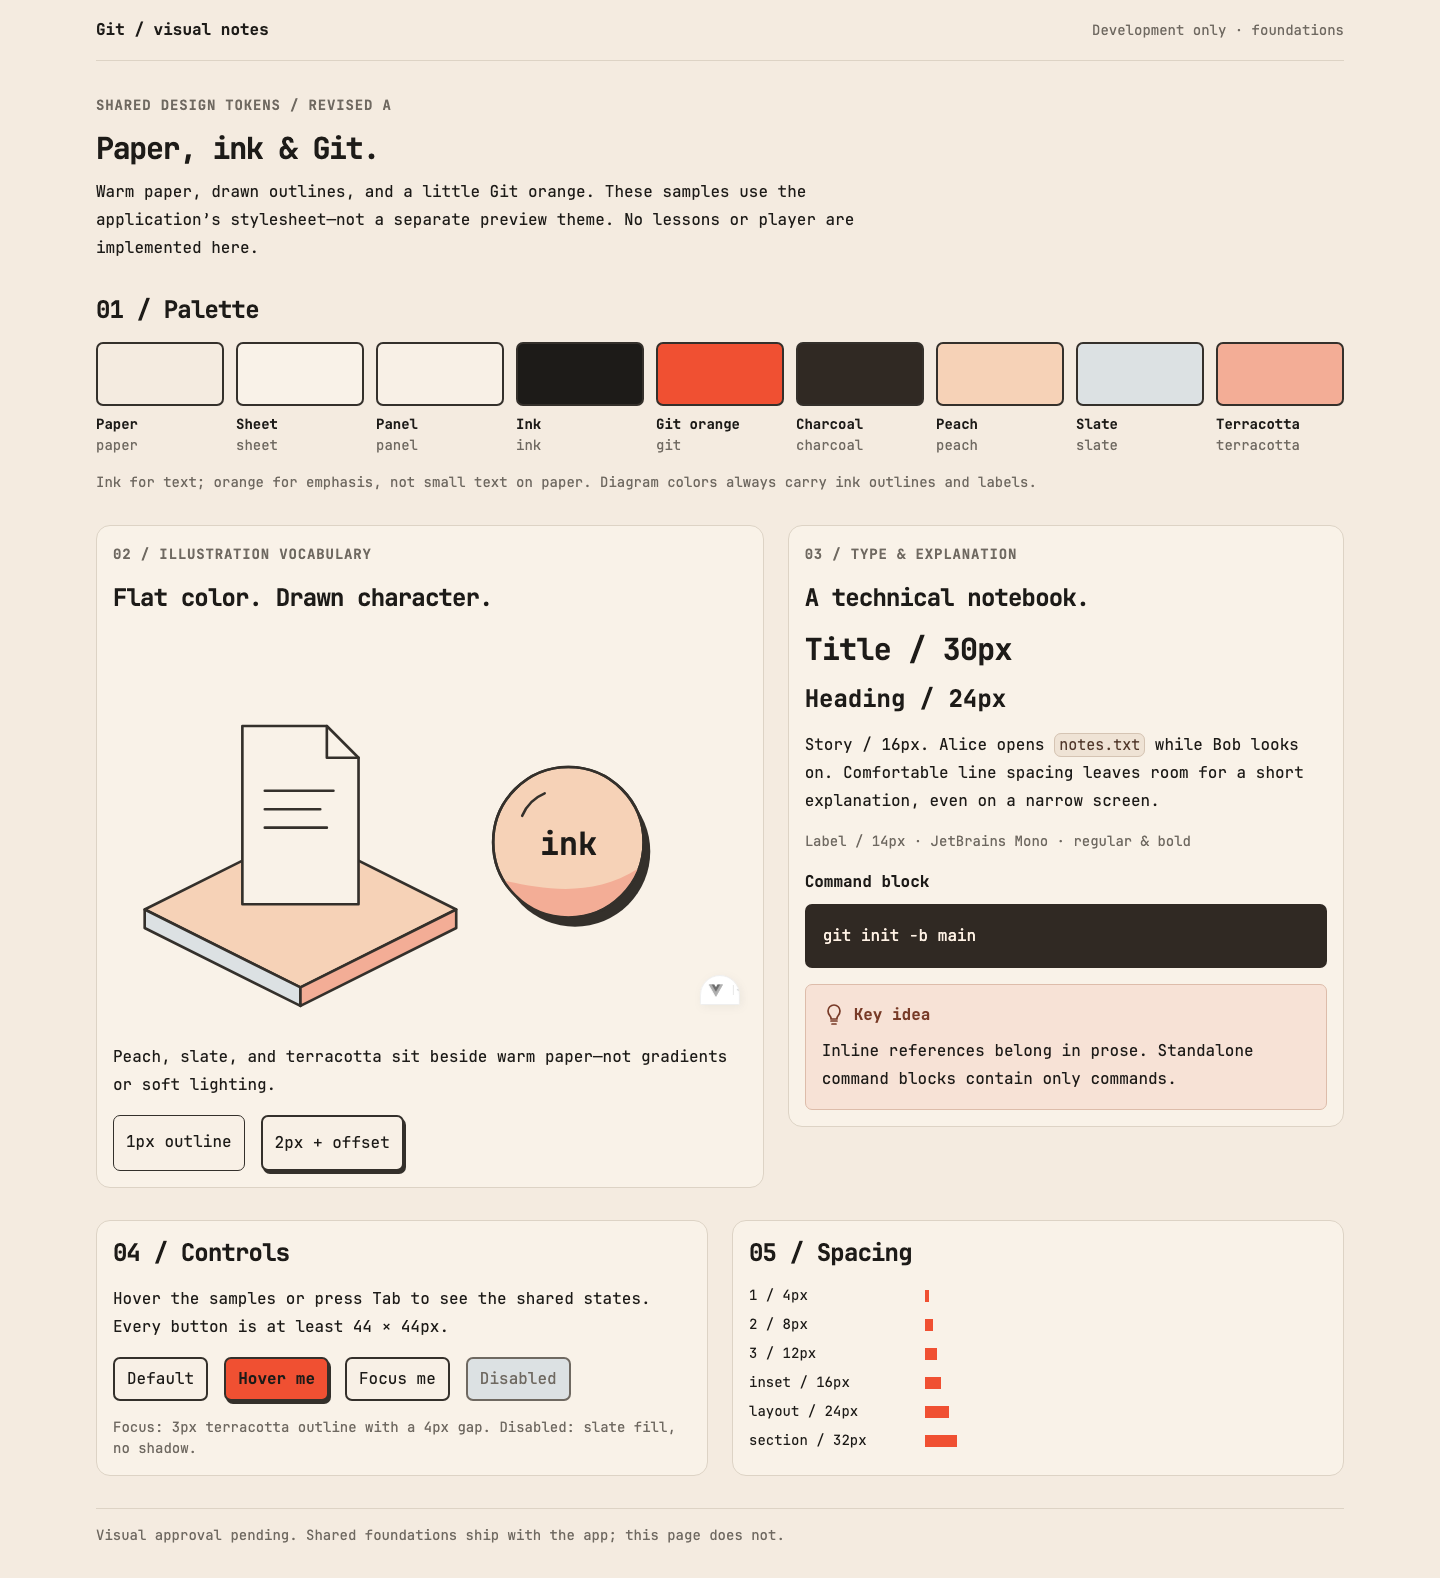
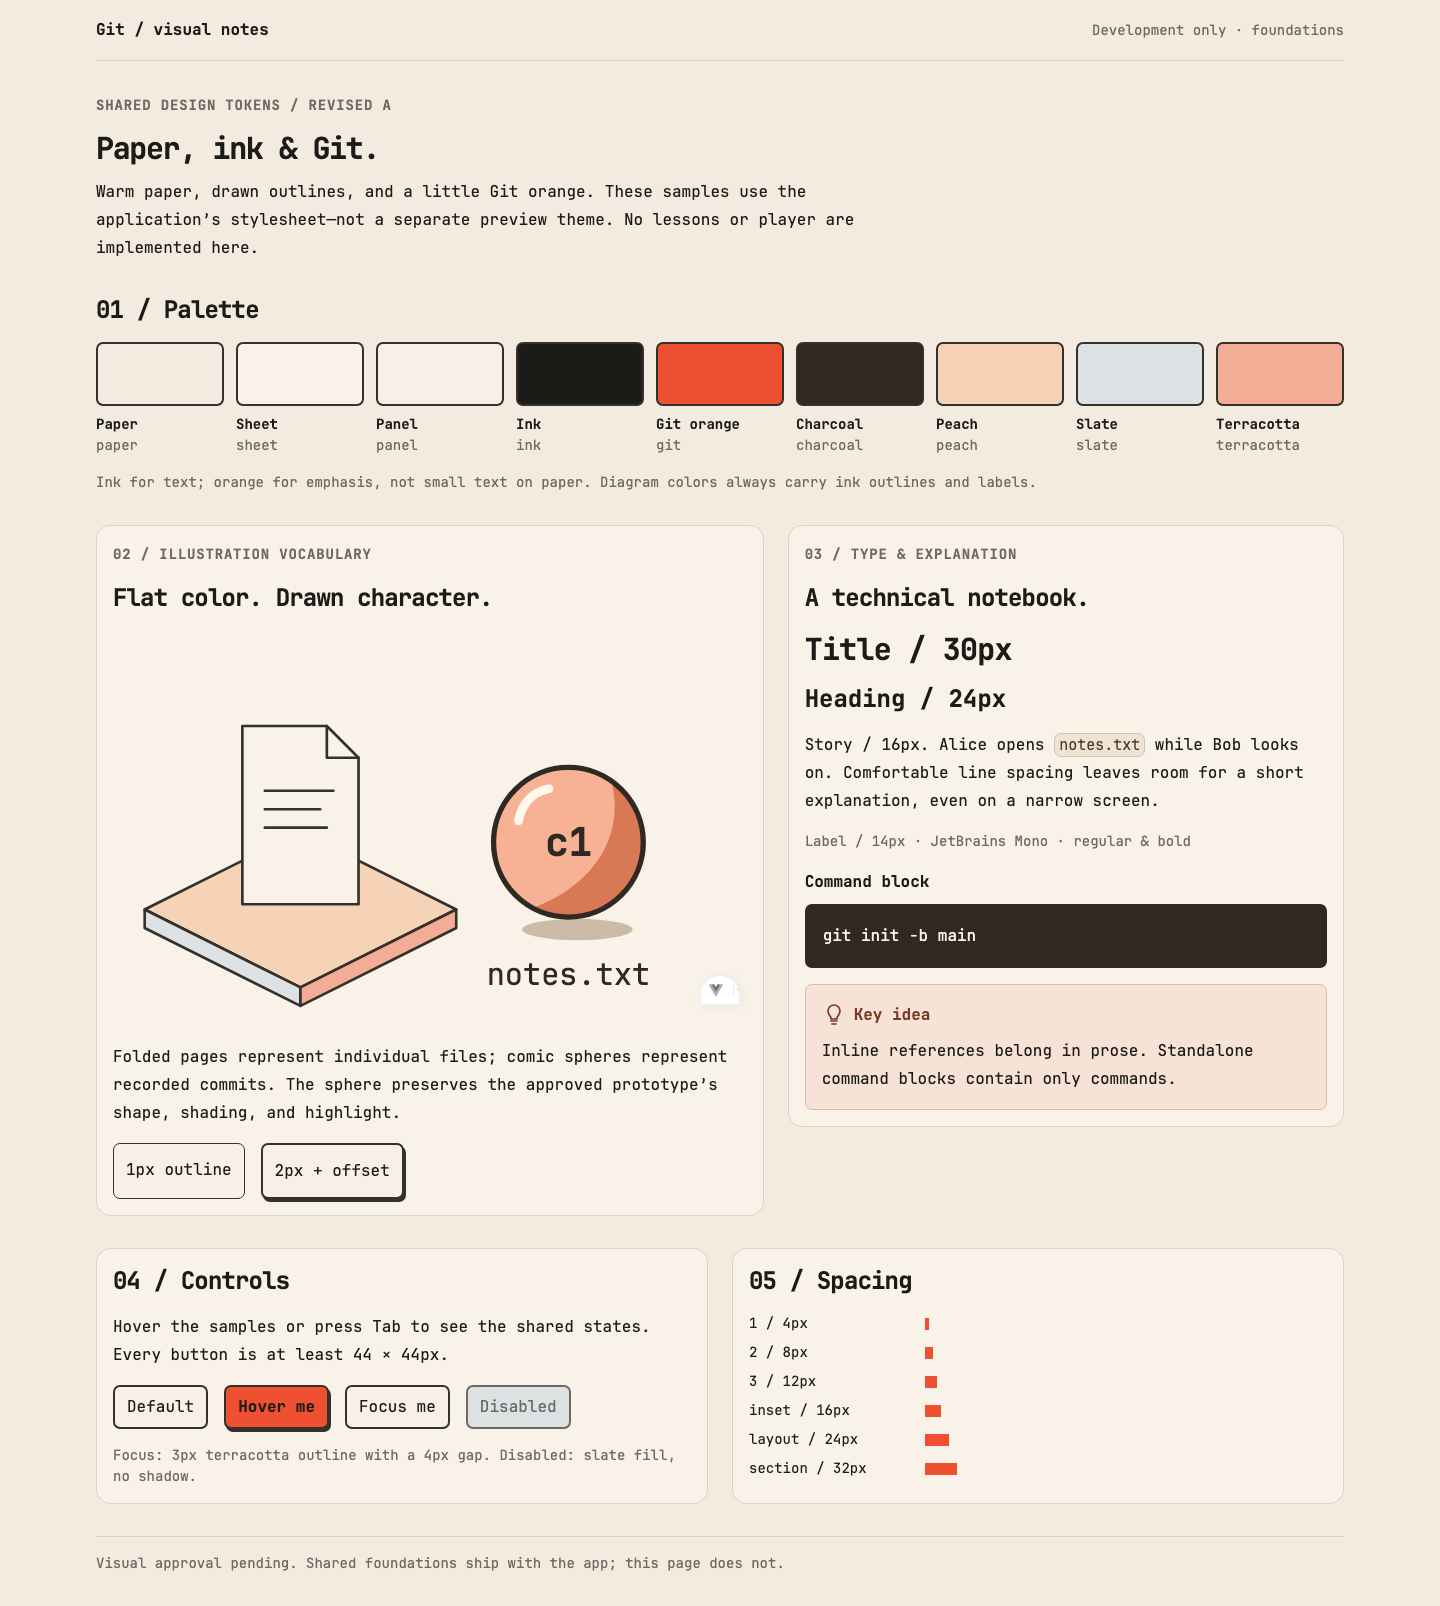
fix: restore approved prototype commit sphere

diff --git a/src/dev/DesignShowcase.vue b/src/dev/DesignShowcase.vue
@@ -66,9 +66,9 @@ const spaces = [
           >
             <title id="illustration-title">Paper and ink illustration sample</title>
             <desc id="illustration-description">
-              An isometric paper tile, a folded document, and a comic sphere with flat peach
-              shading, an ink outline, and a solid offset shadow. These are styling samples, not Git
-              state.
+              A folded document represents an individual file. The commit sphere uses the approved
+              prototype’s clipped side shading, cream highlight, bold outline, and small ground
+              shadow. These are styling samples, not a lesson state.
             </desc>
             <path d="M24 211 142 152 260 211 142 270Z" class="fill-peach stroke-outline" />
             <path d="M24 211v14l118 59v-14Z" class="fill-slate stroke-outline" />
@@ -78,17 +78,37 @@ const spaces = [
               d="M162 72v24h24M115 121h52m-52 14h42m-42 14h47"
               class="fill-none stroke-outline"
             />
-            <circle cx="350" cy="167" r="57" class="fill-outline" />
-            <circle cx="345" cy="160" r="57" class="fill-peach stroke-outline" />
-            <path d="M296 189a57 57 0 0 0 102-9c-36 23-74 15-102 9Z" class="fill-terracotta" />
-            <circle cx="345" cy="160" r="57" class="fill-none stroke-outline" />
-            <path d="M310 140q5-12 17-17" class="fill-none stroke-outline" />
-            <text x="345" y="170" text-anchor="middle" class="fill-ink text-heading font-bold">
-              ink
-            </text>
+            <defs>
+              <clipPath id="showcase-commit-clip"><circle r="42" /></clipPath>
+            </defs>
+            <!-- Preserve final revised A geometry from HistoryPrototype.vue, not a redrawing. -->
+            <g transform="translate(345 160) scale(1.35)">
+              <ellipse cx="5" cy="49" rx="31" ry="6" class="fill-commit-shadow" />
+              <circle r="42" class="fill-commit-current" />
+              <path
+                d="M20-45C36-12 20 26-29 40L-29 60H60V-45Z"
+                clip-path="url(#showcase-commit-clip)"
+                class="fill-commit-current-shade"
+              />
+              <circle r="42" fill="none" class="stroke-charcoal" stroke-width="3" />
+              <path
+                d="M-28-12Q-25-27-11-30"
+                fill="none"
+                class="stroke-commit-highlight"
+                stroke-width="5"
+                stroke-linecap="round"
+              />
+              <text y="8" text-anchor="middle" class="fill-charcoal font-bold" font-size="22">
+                c1
+              </text>
+              <text y="80" text-anchor="middle" class="fill-charcoal" font-size="17">
+                notes.txt
+              </text>
+            </g>
           </svg>
           <p class="text-story">
-            Peach, slate, and terracotta sit beside warm paper—not gradients or soft lighting.
+            Folded pages represent individual files; comic spheres represent recorded commits. The
+            sphere preserves the approved prototype’s shape, shading, and highlight.
           </p>
           <div class="flex flex-wrap gap-inset">
             <span class="rounded-control border border-outline bg-panel p-3">1px outline</span>

diff --git a/src/styles/main.css b/src/styles/main.css
@@ -16,6 +16,10 @@
   --color-peach: #f6d2b7;
   --color-slate: #dce1e3;
   --color-terracotta: #f3ad96;
+  --color-commit-current: #f7b296;
+  --color-commit-current-shade: #d87855;
+  --color-commit-shadow: #cbbba6;
+  --color-commit-highlight: #fff8eb;
   --color-hover: #f5b5a2;
   --color-focus: #a33723;
   --color-code: #efe3d5;

diff --git a/.scratch/git-visual-guide-foundation/issues/02-establish-and-review-shared-design-tokens.md b/.scratch/git-visual-guide-foundation/issues/02-establish-and-review-shared-design-tokens.md
@@ -26,3 +26,5 @@ Preserve the existing approved final revised A presentation, not a new design di
 Implemented shared foundations and `/__design/` (launch with `pnpm dev`; instructions in root README). Human approval is **pending**; this ticket remains incomplete and first-lesson work stays blocked. No separate validation report was created.
 
 Checks: focused Vitest, typecheck, build/artifact check, and one Chromium smoke per dev/preview passed. Reviewed [desktop](../screenshots/tokens-desktop.png), [phone](../screenshots/tokens-phone.png), [320px](../screenshots/tokens-narrow.png), [200% zoom](../screenshots/tokens-zoom-200.png), and [control states](../screenshots/tokens-control-states.png): no horizontal overflow, 16px story samples, buttons ≥44×44px. Active text contrast ≥4.60:1; command text 13.01:1; focus/panel 5.95:1 (disabled text 4.12:1, inactive-control exemption). Real Chromium zoom confirmed 1440px window →720 CSS px, DPR 2. Initial failures were a missing showcase (expected red test), absent styles in the old build (expected artifact-check failure), an overbroad URL check matching Tailwind’s license comment, missing DOM test types, and headless-shell zoom/capture limitations; all corrected. Final `pnpm verify` passed (lint, format, types, 2 unit tests, build, artifact check, 2 dev + 2 preview tests including starter smoke). Independent Standards and Spec reviews found no issues. Commit hook initially rejected trailing whitespace in the upstream OFL text; removed that whitespace without changing the license wording. Human visual approval is still pending.
+
+Human requested the prototype sphere rather than the redrawn sample. Restored the exact revised-A sphere paths, clipped side shade, cream highlight, outline, ground shadow, and label proportions from `HistoryPrototype.vue`, with shared color tokens; refreshed desktop/phone/320px/200% captures (no overflow). Folded-page SVGs are for individual working/staged files, starting with untracked `notes.txt` in the first lesson; spheres remain commit snapshots. Approval remains pending.
